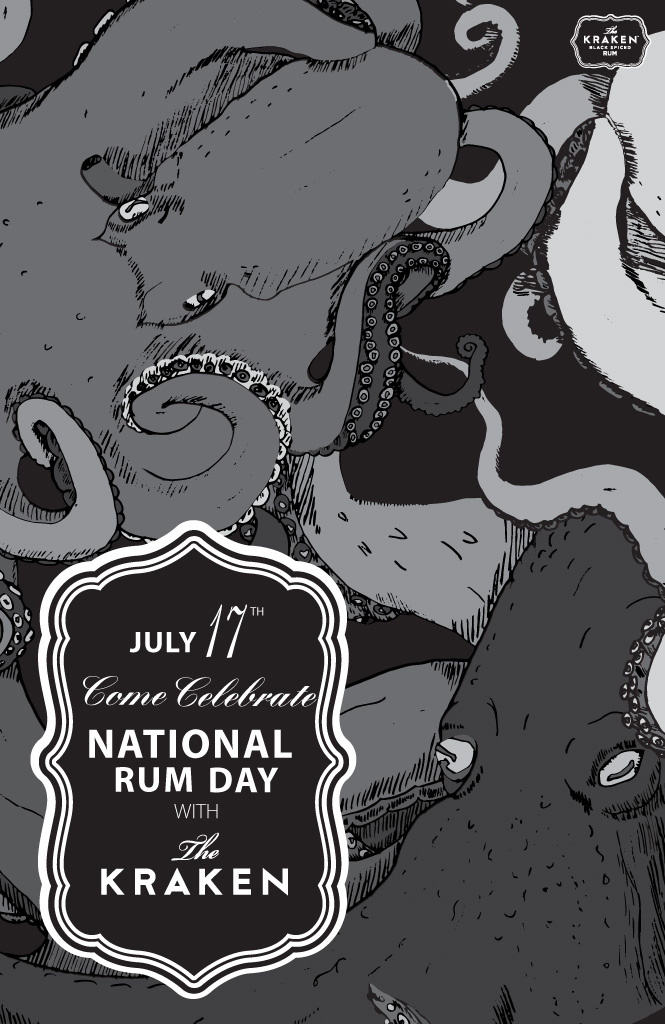
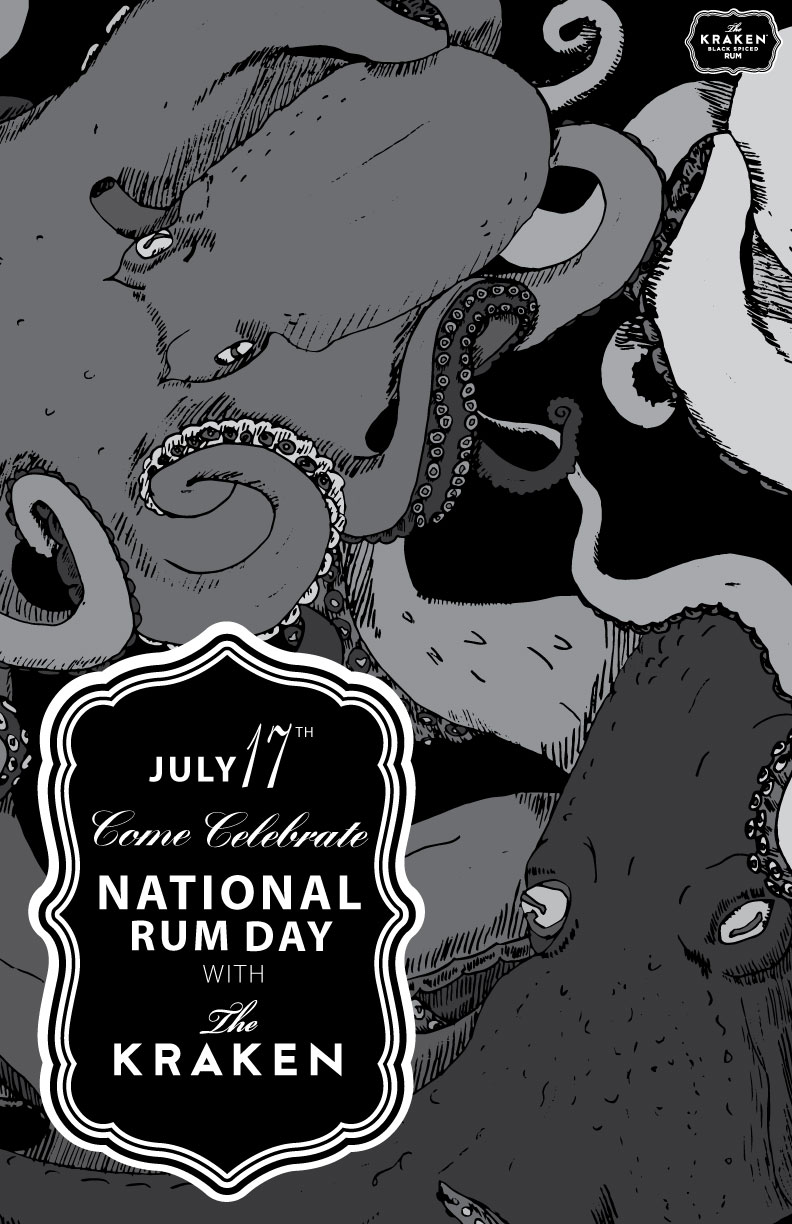
final fixes
embedded vid link, image resized

diff --git a/coming.html b/coming.html
@@ -15,29 +15,44 @@ meta: Upcoming portfolio pieces of graphic designer Alex Rothenebrg. Watch out! 
     <p>Typography</p>
     <p>Handmade Type</p>
     <br>
-    <br>
     <p><strong>Zachariah's Story</strong></p>
     <p>Motion Graphics</p>
     <p>Kinetic Type</p>
-    <br>
     <br>
     <p><strong>Blowing off Steam</strong></p>
     <p>Motion Graphics</p>
     <p>Self GIF</p>
     <br>
-    <br>
     <p><strong>Clean Flush</strong></p>
     <p>Motion Graphics</p>
     <p>App Demo</p>
-    <br>
     <br>
     <p><strong>Motivation</strong></p>
     <p>Typography/Print</p>
     <p>Quote Book</p>
     <br>
-    <br>
     <p><strong>The Pottery Playhouse 2017</strong></p>
     <p>Print</p>
     <p>Catalog</p>
+    <br>
+    <p><strong>OC Transpo</strong></p>
+    <p>Print</p>
+    <p>Brochure</p>
+    <br>
+    <p><strong>Reporter In Training</strong></p>
+    <p>Print</p>
+    <p>Clothing</p>
+    <br>
+    <p><strong>KitchenAid</strong></p>
+    <p>Print</p>
+    <p>Brochure</p>
+    <br>
+    <p><strong>Event Poster</strong></p>
+    <p>Print</p>
+    <p>Poster</p>
+    <br>
+    <p><strong>Scuba Diving Show</strong></p>
+    <p>Motion Graphics</p>
+    <p>Broadcast Package</p>
   </div> 
 </main>

diff --git a/elephant.html b/elephant.html
@@ -5,12 +5,9 @@ meta: Elephant is a motion graphic piece by designer Alex Rothenebrg.
 ---
 
 <main> 
-  <div class="project">
     <div>
-      <a itemprop="url" href="https://vimeo.com/125311526"><img itemprop="image" src="{{site.baseurl}}/images/elephant.jpg"></a>
+      <iframe class="embed-item" src="https://player.vimeo.com/video/125311526?title=0&byline=0&portrait=0" width="640" height="360" frameborder="0" webkitallowfullscreen mozallowfullscreen allowfullscreen></iframe>
     </div>
-  </div>
-  <div>
     <p><strong>Elephant</strong></p>
     <p>This is a stop motion piece that I loved working on, from cunstruction to desruction.</p>
   </div> 

diff --git a/vinta.html b/vinta.html
@@ -26,7 +26,13 @@ meta: Vinta Eco-Packaging is a package redesign piece by designer Alex Rothenebr
       <img itemprop="image" src="{{site.baseurl}}/images/vinta-1.jpg">
     </div>
     <div>
-      <img itemprop="image" src="{{site.baseurl}}/images/vinta-2.jpg">
+      <img itemprop="image" src="{{site.baseurl}}/images/vinta-5.jpg">
+    </div>
+    <div>
+      <img itemprop="image" src="{{site.baseurl}}/images/vinta-3.jpg">
+    </div>
+    <div>
+      <img itemprop="image" src="{{site.baseurl}}/images/vinta-4.jpg">
     </div>
   </div>
 </main>

diff --git a/index.html b/index.html
@@ -7,7 +7,7 @@ priority: 1.0
 <main> 
   <div class="project">
     <div>
-      <a itemprop="url" href="{{site.baseurl}}/rumday/"><img itemprop="image" src="{{site.baseurl}}/images/rum.svg"></a>
+      <a itemprop="url" href="{{site.baseurl}}/rumday/"><img itemprop="image" src="{{site.baseurl}}/images/rum.jpg"></a>
     </div>
     <div>
       <a itemprop="url" href="{{site.baseurl}}/elephant/"><img itemprop="image" src="{{site.baseurl}}/images/elephant.jpg"></a>

diff --git a/css/main.css b/css/main.css
@@ -146,7 +146,7 @@ error {
 @media only screen and (min-width:46.5em){
     
     h1{
-        font-size: 4em;
+        font-size: :4em;
         bottom: 50%;
     }
     h3{
@@ -172,7 +172,7 @@ error {
 @media only screen and (min-width:77em){
     
     h1{
-        font-size: 6em;
+        font-size: :6em;
         bottom: 50%;
     }
     h3{

diff --git a/rumday.html b/rumday.html
@@ -7,7 +7,7 @@ meta: Rum Day is an event poster series by designer Alex Rothenebrg.
 <main> 
   <div class="main-img">
     <div>
-      <img itemprop="image" src="{{site.baseurl}}/images/rum.svg">
+      <img itemprop="image" src="{{site.baseurl}}/images/rum.jpg">
     </div>
   </div>
   <div>

diff --git a/_layouts/default.html b/_layouts/default.html
@@ -63,6 +63,6 @@
       <p><a itemprop="email" href="mailto:alexandra.rothenberg12@gmail.com">Email Me</a></p>
   </div>
     <p><a itemprop="url" href="{{site.baseurl}}/">Back</a></p>
-    </div>
+    </div> 
 </body>
 </html>
